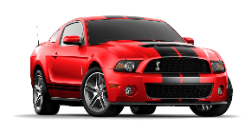
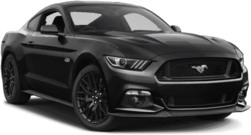
fixed cars ჯუსტანგ

diff --git a/resources/views/frontend/car-rent.blade.php b/resources/views/frontend/car-rent.blade.php
@@ -602,14 +602,14 @@
                                     </div>
 
                                     <div class="car-rent-row3-car3">
-                                    <p>SUV</p>
-                                        <img src="{{asset('front/images//Car_Rent/Nissan Pathfinder.png')}}" alt="">
+                                    <p>Sedan</p>
+                                        <img src="{{asset('front/images//Car_Rent/Ford Mustang.png')}}" alt="">
                                         <div class="rent-toyota-specs"> 
                                         <div class="rent-vehicle-type">
                                                 
                                             </div> 
                                         <div class="car-rent-name">
-                                            <p>NISSAN PATHFINDER</p>
+                                            <p>Ford Mustang</p>
                                         </div>
                                         <div class="car-rent-vehicle-type">
                                             <p>or similar</p>
@@ -617,11 +617,11 @@
                                         <div class="rent-vehicle-specs">
                                         <div class="vehicle-specs-line-1">
                                             <div class="car-spec-line">
-                                                <i class="fa-solid fa-user"></i><p>5 seats</p>
+                                                <i class="fa-solid fa-user"></i><p>4 seats</p>
                                                 </div>
 
                                                 <div class="car-spec-line">
-                                                <i class="fa-solid fa-suitcase"></i><p>3 Small Suitcases</p>
+                                                <i class="fa-solid fa-suitcase"></i><p>2 Small Suitcases</p>
                                                 </div>
 
                                                 <div class="car-spec-line">
@@ -639,7 +639,7 @@
                                                 </div>
                                                             
                                                 <div class="car-spec-line">
-                                                <i class="fa-solid fa-suitcase-rolling"></i><p>3 Large Suitcase</p>
+                                                <i class="fa-solid fa-suitcase-rolling"></i><p>1 Large Suitcase</p>
                                                 </div>
                                                  
                                                 <div class="car-spec-line">
